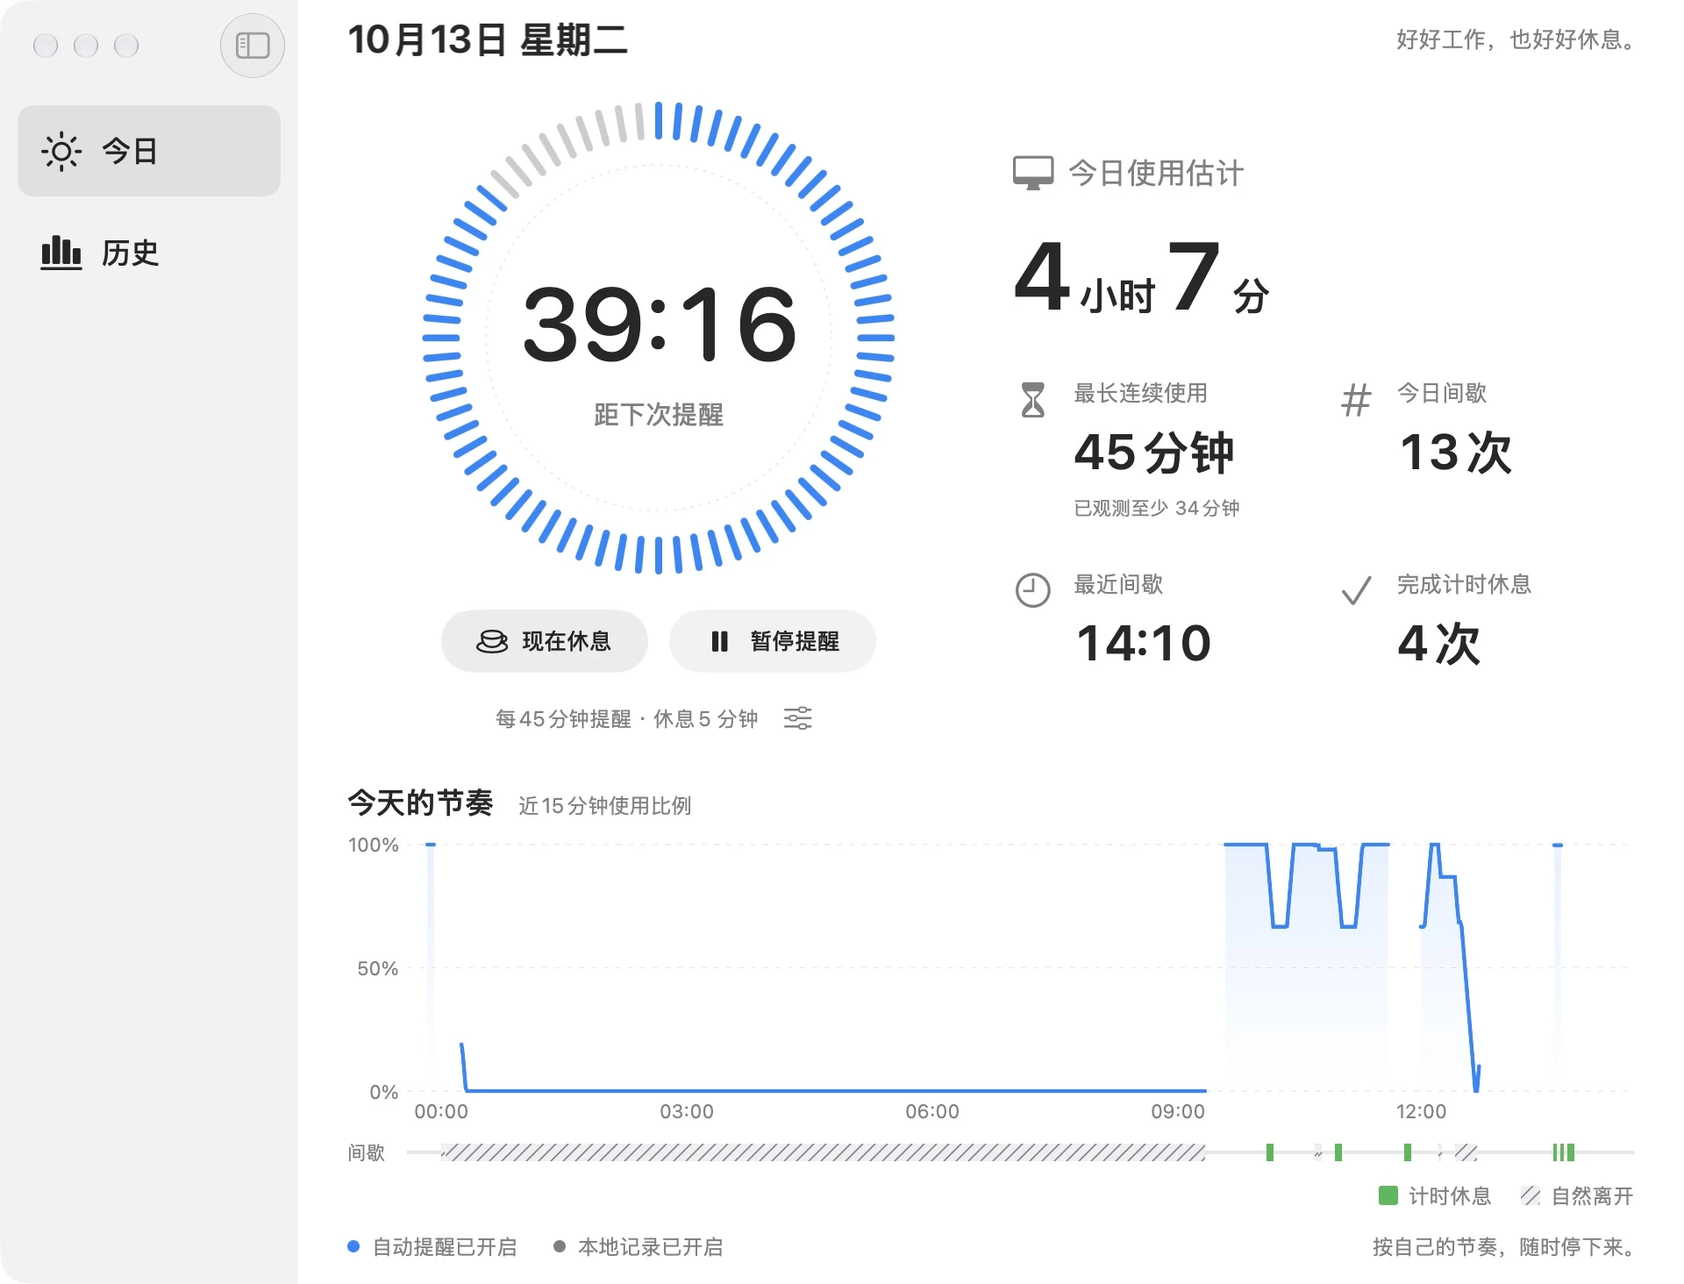
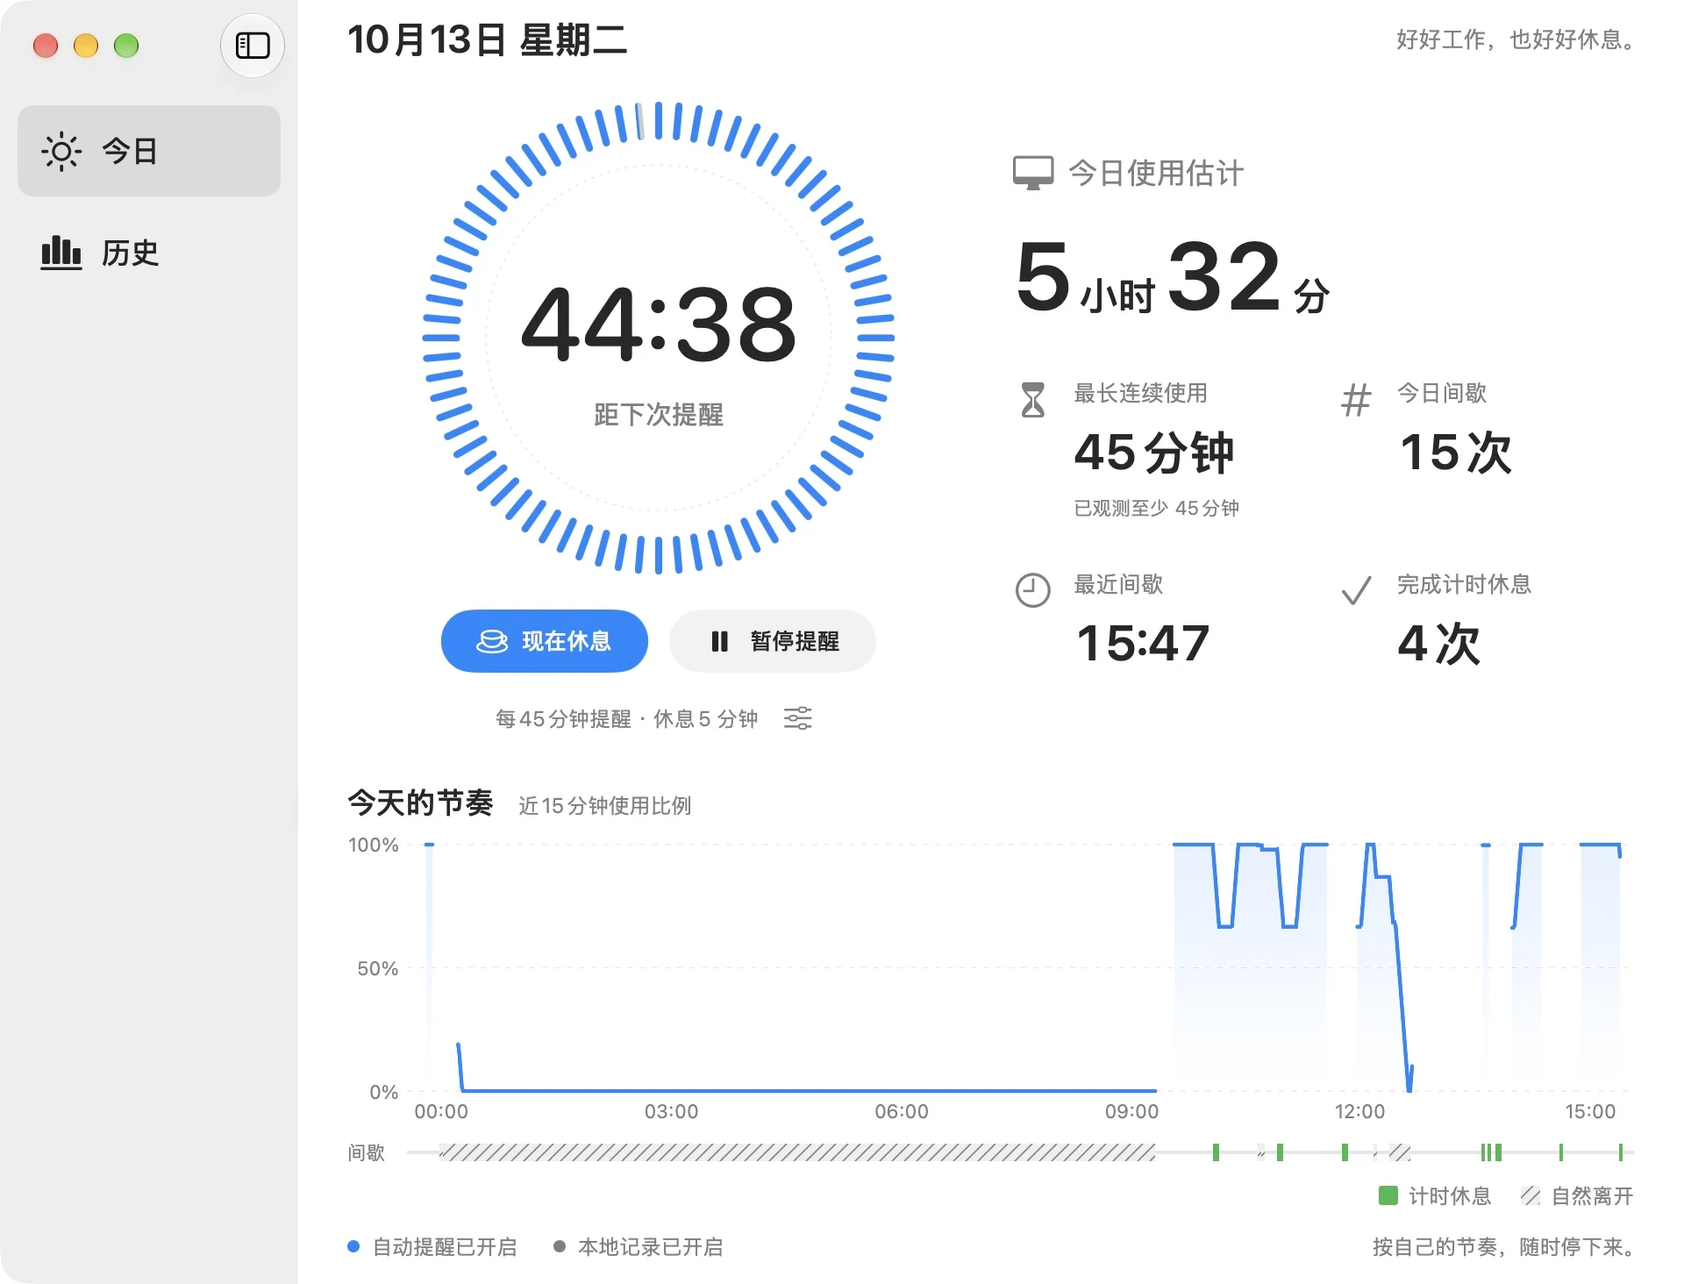
Refresh active-window screenshots and custom break backgrounds

diff --git a/en/index.html b/en/index.html
@@ -1,7 +1,7 @@
 <!doctype html>
 <html lang="en"><head><meta charset="utf-8"><meta name="viewport" content="width=device-width,initial-scale=1"><meta name="color-scheme" content="light dark"><title>Unfold · Unfold</title><meta name="description" content="A quiet companion in your menu bar. Choose your rhythm, make room for a pause, and let your eyes wander beyond the screen."><link rel="canonical" href="https://nil-byte.github.io/unfold-site/en/"><link rel="alternate" hreflang="zh-Hans" href="https://nil-byte.github.io/unfold-site/"><link rel="alternate" hreflang="en" href="https://nil-byte.github.io/unfold-site/en/"><link rel="alternate" hreflang="zh-Hant" href="https://nil-byte.github.io/unfold-site/zh-Hant/"><link rel="icon" href="../assets/icon.png"><meta property="og:title" content="Unfold · Unfold"><meta property="og:description" content="A quiet companion in your menu bar. Choose your rhythm, make room for a pause, and let your eyes wander beyond the screen."><meta property="og:type" content="website"><meta property="og:url" content="https://nil-byte.github.io/unfold-site/en/"><meta property="og:image" content="https://nil-byte.github.io/unfold-site/assets/og-cover.png"><meta name="twitter:card" content="summary_large_image"><link rel="stylesheet" href="../style.css"><script src="../gallery.js" defer></script></head><body><a class="skip" href="#main-content">Skip to content</a><header class="site-header wrap"><a class="brand" href="../en/"><img src="../assets/icon.png" width="44" height="44" alt=""><span>Unfold <small></small></span></a><nav aria-label="Navigation"><a href="../en/#features">Features</a><a href="../en/#pricing">Free & Pro</a><a href="../en/support/">Support</a><details class="languages"><summary>English <span aria-hidden="true">⌄</span></summary><div><a lang="zh-Hans" href="../">简体中文</a><a lang="en" href="../en/" aria-current="page">English</a><a lang="zh-Hant" href="../zh-Hant/">繁體中文</a></div></details></nav></header><main id="main-content"><section class="hero wrap"><div><p class="eyebrow">A break reminder, made for Mac</p><h1>Work well.<br><span>Rest well.</span></h1></div><div class="hero-note"><p class="intro">A quiet companion in your menu bar. Choose your rhythm, make room for a pause, and let your eyes wander beyond the screen.</p><a class="button" href="#experience">See Unfold in action <span aria-hidden="true">↘</span></a><p class="launch-status"><span aria-hidden="true"></span>Preparing for the Mac App Store</p><p class="requirements">Apple silicon · macOS 15 or later</p></div></section>
 <section class="experience wrap" id="experience" aria-label="See Unfold in action"><div class="gallery-controls"><button type="button" class="gallery-tab" aria-pressed="true" data-gallery-src="../assets/en-today.webp" data-gallery-alt="Today" aria-controls="app-screenshot">Today</button><button type="button" class="gallery-tab" aria-pressed="false" data-gallery-src="../assets/en-history.webp" data-gallery-alt="Monthly history" aria-controls="app-screenshot">Monthly history</button><button type="button" class="gallery-tab" aria-pressed="false" data-gallery-src="../assets/en-rest.webp" data-gallery-alt="Break screen" aria-controls="app-screenshot">Break screen</button></div><figure class="app-frame"><a id="full-screenshot" href="../assets/en-today.webp" target="_blank" rel="noopener" aria-label="View full-size image"><img id="app-screenshot" src="../assets/en-today.webp" width="1920" height="1464" alt="Today" fetchpriority="high"></a></figure><p class="figure-caption">The real app. Quiet reminders, a clearer view of your day. <a href="../assets/en-today.webp" class="original-link" target="_blank" rel="noopener">View full-size image ↗</a></p></section>
-<section class="feature-section wrap" id="features"><div class="section-heading"><p class="eyebrow">01 / Features</p><h2>Make room for a pause.</h2></div><div class="feature-layout"><ol class="feature-list"><li><span class="feature-number">01</span><div><h3>A rhythm that feels like yours.</h3><p>Set your reminder interval and break duration. Choose a full-screen break or a notification. Pause, postpone, or finish early whenever you need.</p></div></li><li><span class="feature-number">02</span><div><h3>A little quiet when you focus.</h3><p>Quiet hours and Focus filters are free. Pro also lets reminders avoid busy calendar events and selected foreground apps.</p></div></li><li><span class="feature-number">03</span><div><h3>See your rhythm, without a score.</h3><p>Today, monthly heatmaps, and trends are free. Daily and weekly details cover the last seven days for free. Usage estimates reflect observed periods only.</p></div></li></ol><figure class="rest-figure"><img src="../assets/en-rest.webp" width="1470" height="956" alt="Break screen" loading="lazy"><figcaption><h3>A moment away from the screen.</h3><p>The default frosted break screen covers available displays. Pro adds your own background image and break message.</p></figcaption></figure></div></section>
+<section class="feature-section wrap" id="features"><div class="section-heading"><p class="eyebrow">01 / Features</p><h2>Make room for a pause.</h2></div><div class="feature-layout"><ol class="feature-list"><li><span class="feature-number">01</span><div><h3>A rhythm that feels like yours.</h3><p>Set your reminder interval and break duration. Choose a full-screen break or a notification. Pause, postpone, or finish early whenever you need.</p></div></li><li><span class="feature-number">02</span><div><h3>A little quiet when you focus.</h3><p>Quiet hours and Focus filters are free. Pro also lets reminders avoid busy calendar events and selected foreground apps.</p></div></li><li><span class="feature-number">03</span><div><h3>See your rhythm, without a score.</h3><p>Today, monthly heatmaps, and trends are free. Daily and weekly details cover the last seven days for free. Usage estimates reflect observed periods only.</p></div></li></ol><figure class="rest-figure"><img src="../assets/en-rest.webp" width="1470" height="956" alt="Break screen" loading="lazy"><figcaption><h3>A moment away from the screen.</h3><p>The break screen covers available displays. This image shows a custom Pro background; the default uses frosted glass. Pro also adds your own message.</p></figcaption></figure></div></section>
 <section class="pricing-section wrap" id="pricing"><div class="section-heading"><p class="eyebrow">02 / Free & Pro</p><h2>Start for free.<br>Make it yours with Pro.</h2></div><div class="plans"><article class="plan"><div class="plan-top"><h3>Free</h3><span class="price">0</span></div><p>Everything for a daily rhythm</p><ul><li>Automatic and manual breaks</li><li>Interval, duration, pause, and postpone</li><li>Quiet hours and Focus filters</li><li>Today and all monthly statistics</li><li>Seven days of details, history export and deletion</li></ul></article><article class="plan pro"><div class="plan-top"><h3>Unfold Pro</h3><span class="price">$4.99</span></div><p>One purchase. No subscription.</p><ul><li>Your own break message</li><li>Custom background images</li><li>Busy calendar event avoidance</li><li>Selected foreground app avoidance</li><li>Earlier daily and weekly details</li></ul></article></div><div class="pricing-notes"><p>US reference price. Your local price is shown by Apple in the app.</p><p>Apple handles purchases and restores. Monthly statistics stay free.</p></div></section>
 <section class="privacy-section wrap"><p class="eyebrow">03 / Privacy</p><div class="split-copy"><h2>Your rhythm stays on your Mac.</h2><div><p>History is stored locally. Unfold does not upload activity data or read screen contents. There are no advertising or analytics SDKs. Turn recording off, export your history, or delete it.</p><a class="text-link" href="../en/privacy/">Read the privacy policy ↗</a></div></div></section>
 <section class="help-section wrap"><div><h2>Need a hand?</h2><p>Find help with reminders, history, and purchases, or contact support directly.</p></div><a class="text-link" href="../en/support/">Visit support ↗</a></section></main><footer class="site-footer wrap"><a class="brand wordmark" href="../en/">Unfold</a><p>A moment of rest, at your own pace.</p><nav><a href="../en/support/">Support</a><a href="../en/privacy/">Privacy</a><a href="mailto:unfold.app.musky865@passinbox.com">Email</a></nav></footer></body></html>

diff --git a/index.html b/index.html
@@ -1,7 +1,7 @@
 <!doctype html>
 <html lang="zh-Hans"><head><meta charset="utf-8"><meta name="viewport" content="width=device-width,initial-scale=1"><meta name="color-scheme" content="light dark"><title>间息 · Unfold</title><meta name="description" content="让菜单栏里的一点提醒，为专注留出间息。按自己的节奏设置提醒，把目光从屏幕上移开片刻。"><link rel="canonical" href="https://nil-byte.github.io/unfold-site/"><link rel="alternate" hreflang="zh-Hans" href="https://nil-byte.github.io/unfold-site/"><link rel="alternate" hreflang="en" href="https://nil-byte.github.io/unfold-site/en/"><link rel="alternate" hreflang="zh-Hant" href="https://nil-byte.github.io/unfold-site/zh-Hant/"><link rel="icon" href="./assets/icon.png"><meta property="og:title" content="间息 · Unfold"><meta property="og:description" content="让菜单栏里的一点提醒，为专注留出间息。按自己的节奏设置提醒，把目光从屏幕上移开片刻。"><meta property="og:type" content="website"><meta property="og:url" content="https://nil-byte.github.io/unfold-site/"><meta property="og:image" content="https://nil-byte.github.io/unfold-site/assets/og-cover.png"><meta name="twitter:card" content="summary_large_image"><link rel="stylesheet" href="./style.css"><script src="./gallery.js" defer></script></head><body><a class="skip" href="#main-content">跳到正文</a><header class="site-header wrap"><a class="brand" href="./"><img src="./assets/icon.png" width="44" height="44" alt=""><span>Unfold <small>间息</small></span></a><nav aria-label="导航"><a href="./#features">功能</a><a href="./#pricing">免费与 Pro</a><a href="./support/">支持</a><details class="languages"><summary>简体中文 <span aria-hidden="true">⌄</span></summary><div><a lang="zh-Hans" href="./" aria-current="page">简体中文</a><a lang="en" href="./en/">English</a><a lang="zh-Hant" href="./zh-Hant/">繁體中文</a></div></details></nav></header><main id="main-content"><section class="hero wrap"><div><p class="eyebrow">为 Mac 而做的休息提醒</p><h1>好好工作。<br>也好好<span>休息。</span></h1></div><div class="hero-note"><p class="intro">让菜单栏里的一点提醒，为专注留出间息。按自己的节奏设置提醒，把目光从屏幕上移开片刻。</p><a class="button" href="#experience">看看间息如何工作 <span aria-hidden="true">↘</span></a><p class="launch-status"><span aria-hidden="true"></span>Mac App Store 上架准备中</p><p class="requirements">Apple silicon · macOS 15 或更新版本</p></div></section>
 <section class="experience wrap" id="experience" aria-label="看看间息如何工作"><div class="gallery-controls"><button type="button" class="gallery-tab" aria-pressed="true" data-gallery-src="./assets/zh-Hans-today.webp" data-gallery-alt="今日" aria-controls="app-screenshot">今日</button><button type="button" class="gallery-tab" aria-pressed="false" data-gallery-src="./assets/zh-Hans-history.webp" data-gallery-alt="月统计" aria-controls="app-screenshot">月统计</button><button type="button" class="gallery-tab" aria-pressed="false" data-gallery-src="./assets/zh-Hans-rest.webp" data-gallery-alt="休息画面" aria-controls="app-screenshot">休息画面</button></div><figure class="app-frame"><a id="full-screenshot" href="./assets/zh-Hans-today.webp" target="_blank" rel="noopener" aria-label="查看原图"><img id="app-screenshot" src="./assets/zh-Hans-today.webp" width="1920" height="1464" alt="今日" fetchpriority="high"></a></figure><p class="figure-caption">真实应用画面。简单的提醒，看得见的节奏。 <a href="./assets/zh-Hans-today.webp" class="original-link" target="_blank" rel="noopener">查看原图 ↗</a></p></section>
-<section class="feature-section wrap" id="features"><div class="section-heading"><p class="eyebrow">01 / 功能</p><h2>把休息，留在日常里。</h2></div><div class="feature-layout"><ol class="feature-list"><li><span class="feature-number">01</span><div><h3>按你的节奏，适时提醒。</h3><p>设定提醒间隔与休息时长。全屏休息或系统通知，暂停、延后、提前结束，都由你决定。</p></div></li><li><span class="feature-number">02</span><div><h3>专注时，留一点安静。</h3><p>免打扰时段与 Focus 过滤条件免费使用。Pro 还可避让忙碌日历和指定前台应用。</p></div></li><li><span class="feature-number">03</span><div><h3>回看节奏，不给自己打分。</h3><p>今日、月热力图与趋势免费查看；日周明细免费回看最近七天。使用估计只反映已观测的时段。</p></div></li></ol><figure class="rest-figure"><img src="./assets/zh-Hans-rest.webp" width="1470" height="956" alt="休息画面" loading="lazy"><figcaption><h3>留一点时间，让视线离开屏幕。</h3><p>默认磨砂休息画面覆盖可用显示器。Pro 可换成自己的图片和提示文字。</p></figcaption></figure></div></section>
+<section class="feature-section wrap" id="features"><div class="section-heading"><p class="eyebrow">01 / 功能</p><h2>把休息，留在日常里。</h2></div><div class="feature-layout"><ol class="feature-list"><li><span class="feature-number">01</span><div><h3>按你的节奏，适时提醒。</h3><p>设定提醒间隔与休息时长。全屏休息或系统通知，暂停、延后、提前结束，都由你决定。</p></div></li><li><span class="feature-number">02</span><div><h3>专注时，留一点安静。</h3><p>免打扰时段与 Focus 过滤条件免费使用。Pro 还可避让忙碌日历和指定前台应用。</p></div></li><li><span class="feature-number">03</span><div><h3>回看节奏，不给自己打分。</h3><p>今日、月热力图与趋势免费查看；日周明细免费回看最近七天。使用估计只反映已观测的时段。</p></div></li></ol><figure class="rest-figure"><img src="./assets/zh-Hans-rest.webp" width="1470" height="956" alt="休息画面" loading="lazy"><figcaption><h3>留一点时间，让视线离开屏幕。</h3><p>休息画面覆盖可用显示器。图中为 Pro 自选壁纸；默认使用磨砂，也可以自定义提示文字。</p></figcaption></figure></div></section>
 <section class="pricing-section wrap" id="pricing"><div class="section-heading"><p class="eyebrow">02 / 免费与 Pro</p><h2>基本功能免费。<br>喜欢的话，再选 Pro。</h2></div><div class="plans"><article class="plan"><div class="plan-top"><h3>免费</h3><span class="price">0</span></div><p>从日常提醒开始</p><ul><li>自动与手动休息提醒</li><li>间隔与时长设置、暂停与延后</li><li>免打扰时段与 Focus 过滤条件</li><li>今日、所有月份的月统计</li><li>最近七天日周明细、记录导出与删除</li></ul></article><article class="plan pro"><div class="plan-top"><h3>Unfold Pro</h3><span class="price">¥30</span></div><p>一次购买，不自动续费</p><ul><li>自定义休息提示文字</li><li>自选背景图片</li><li>日历忙碌时段避让</li><li>指定前台应用避让</li><li>更早日期的日周明细</li></ul></article></div><div class="pricing-notes"><p>中国大陆参考价格。其他地区以应用内 Apple 显示的当地价格为准。</p><p>购买与恢复购买通过 Apple 处理。月统计无需购买 Pro。</p></div></section>
 <section class="privacy-section wrap"><p class="eyebrow">03 / 隐私</p><div class="split-copy"><h2>你的节奏，留在你的 Mac。</h2><div><p>历史记录仅保存在本机。间息不上传活动数据、不读取屏幕内容，也没有广告或分析 SDK。记录可以关闭，已有历史可以导出或删除。</p><a class="text-link" href="./privacy/">了解隐私政策 ↗</a></div></div></section>
 <section class="help-section wrap"><div><h2>需要帮助？</h2><p>提醒、历史或购买遇到问题，可以先查看使用说明，或直接联系支持。</p></div><a class="text-link" href="./support/">打开支持页面 ↗</a></section></main><footer class="site-footer wrap"><a class="brand wordmark" href="./">Unfold</a><p>按自己的节奏，随时停下来。</p><nav><a href="./support/">支持</a><a href="./privacy/">隐私</a><a href="mailto:unfold.app.musky865@passinbox.com">Email</a></nav></footer></body></html>

diff --git a/style.css b/style.css
@@ -2,6 +2,6 @@
 @media(hover:hover){nav a:hover,.back-link:hover,.text-link:hover,.figure-caption a:hover,.email:hover{color:var(--blue);text-decoration:underline;text-underline-offset:5px}.button:hover{filter:brightness(.94)}.gallery-tab:hover{background:var(--wash);color:var(--ink)}.gallery-tab[aria-pressed=true]:hover{background:var(--ink);color:var(--canvas)}}
 @media(prefers-color-scheme:dark){:root{--canvas:#17191c;--ink:#eceeea;--muted:#b2b8bd;--blue:#79b6ff;--rule:#3b4147;--surface:#282c31;--wash:#25292d}.button{background:#1672d6;color:#fff}.app-frame{box-shadow:0 20px 70px -25px #0008}.languages>div{box-shadow:0 10px 35px #0005}}
 @media(max-width:1000px){.hero{gap:40px}.hero h1{font-size:58px}.feature-layout,.plans,.split-copy{gap:44px}nav{gap:20px}}
-@media(max-width:760px){:root{--space:64px}.wrap{width:calc(100% - 48px)}.site-header{align-items:flex-start;gap:20px;padding-block:20px}.site-header nav{gap:8px 18px;justify-content:flex-end;flex-wrap:wrap;max-width:270px}.site-header nav>a{min-height:32px;font-size:13px}.languages summary{min-height:32px;font-size:13px}.brand{font-size:23px}.brand small{display:none}.brand img{width:38px;height:38px}.hero{grid-template-columns:1fr;gap:28px;padding-top:38px;padding-bottom:35px}.hero h1{font-size:60px}.hero-note{max-width:520px}.intro{font-size:18px}.gallery-controls{justify-content:flex-start;gap:0;margin-bottom:16px}.gallery-tab{padding-inline:16px;font-size:13px}.app-frame{border-radius:8px}.figure-caption{font-size:11px;gap:8px;flex-wrap:wrap}.feature-layout,.plans,.split-copy{grid-template-columns:1fr;gap:28px}.section-heading{margin-bottom:26px}.rest-figure{padding-top:0}.rest-figure h3{font-size:21px}.plan{padding-top:22px}.plan ul{margin-top:18px}.plan li{padding-block:8px}.split-copy h2{font-size:34px}.help-section{display:block}.help-section>.text-link{margin-top:18px}.site-footer{flex-wrap:wrap;gap:12px 20px}.site-footer p{flex:1;min-width:190px}.site-footer nav{width:100%}.document{padding-top:30px;padding-bottom:60px}.document h1{font-size:44px}.document-intro{font-size:19px}.contact-block{padding:24px}.email{font-size:16px}.document section h2{font-size:21px}}
+@media(max-width:760px){:root{--space:64px}.wrap{width:calc(100% - 48px)}.site-header{align-items:flex-start;gap:20px;padding-block:20px}.site-header nav{gap:8px 18px;justify-content:flex-end;flex-wrap:wrap;max-width:270px}.site-header nav>a{min-height:40px;font-size:13px}.languages summary{min-height:40px;font-size:13px}.brand{font-size:23px}.brand small{display:none}.brand img{width:38px;height:38px}.hero{grid-template-columns:1fr;gap:28px;padding-top:38px;padding-bottom:35px}.hero h1{font-size:60px}.hero-note{max-width:520px}.intro{font-size:18px}.gallery-controls{justify-content:flex-start;gap:0;margin-bottom:16px}.gallery-tab{padding-inline:16px;font-size:13px}.app-frame{border-radius:8px}.figure-caption{font-size:11px;gap:8px;flex-wrap:wrap}.feature-layout,.plans,.split-copy{grid-template-columns:1fr;gap:28px}.section-heading{margin-bottom:26px}.rest-figure{padding-top:0}.rest-figure h3{font-size:21px}.plan{padding-top:22px}.plan ul{margin-top:18px}.plan li{padding-block:8px}.split-copy h2{font-size:34px}.help-section{display:block}.help-section>.text-link{margin-top:18px}.site-footer{flex-wrap:wrap;gap:12px 20px}.site-footer p{flex:1;min-width:190px}.site-footer nav{width:100%}.document{padding-top:30px;padding-bottom:60px}.document h1{font-size:44px}.document-intro{font-size:19px}.contact-block{padding:24px}.email{font-size:16px}.document section h2{font-size:21px}}
 @media(max-width:400px){.wrap{width:calc(100% - 36px)}.site-header{gap:14px}.site-header nav{gap:2px 12px}.site-header nav>a:first-child{display:none}.hero h1{font-size:48px}.eyebrow{margin-bottom:18px}.intro{font-size:16px}.gallery-tab{padding:9px 12px}.section-heading h2{font-size:32px}.document h1{font-size:38px}.brand{font-size:21px}.brand img{width:32px;height:32px}}
 @media(prefers-reduced-motion:no-preference){a,button{transition:transform 120ms ease-out}.faq summary>span{transition:transform 150ms ease-out}}
